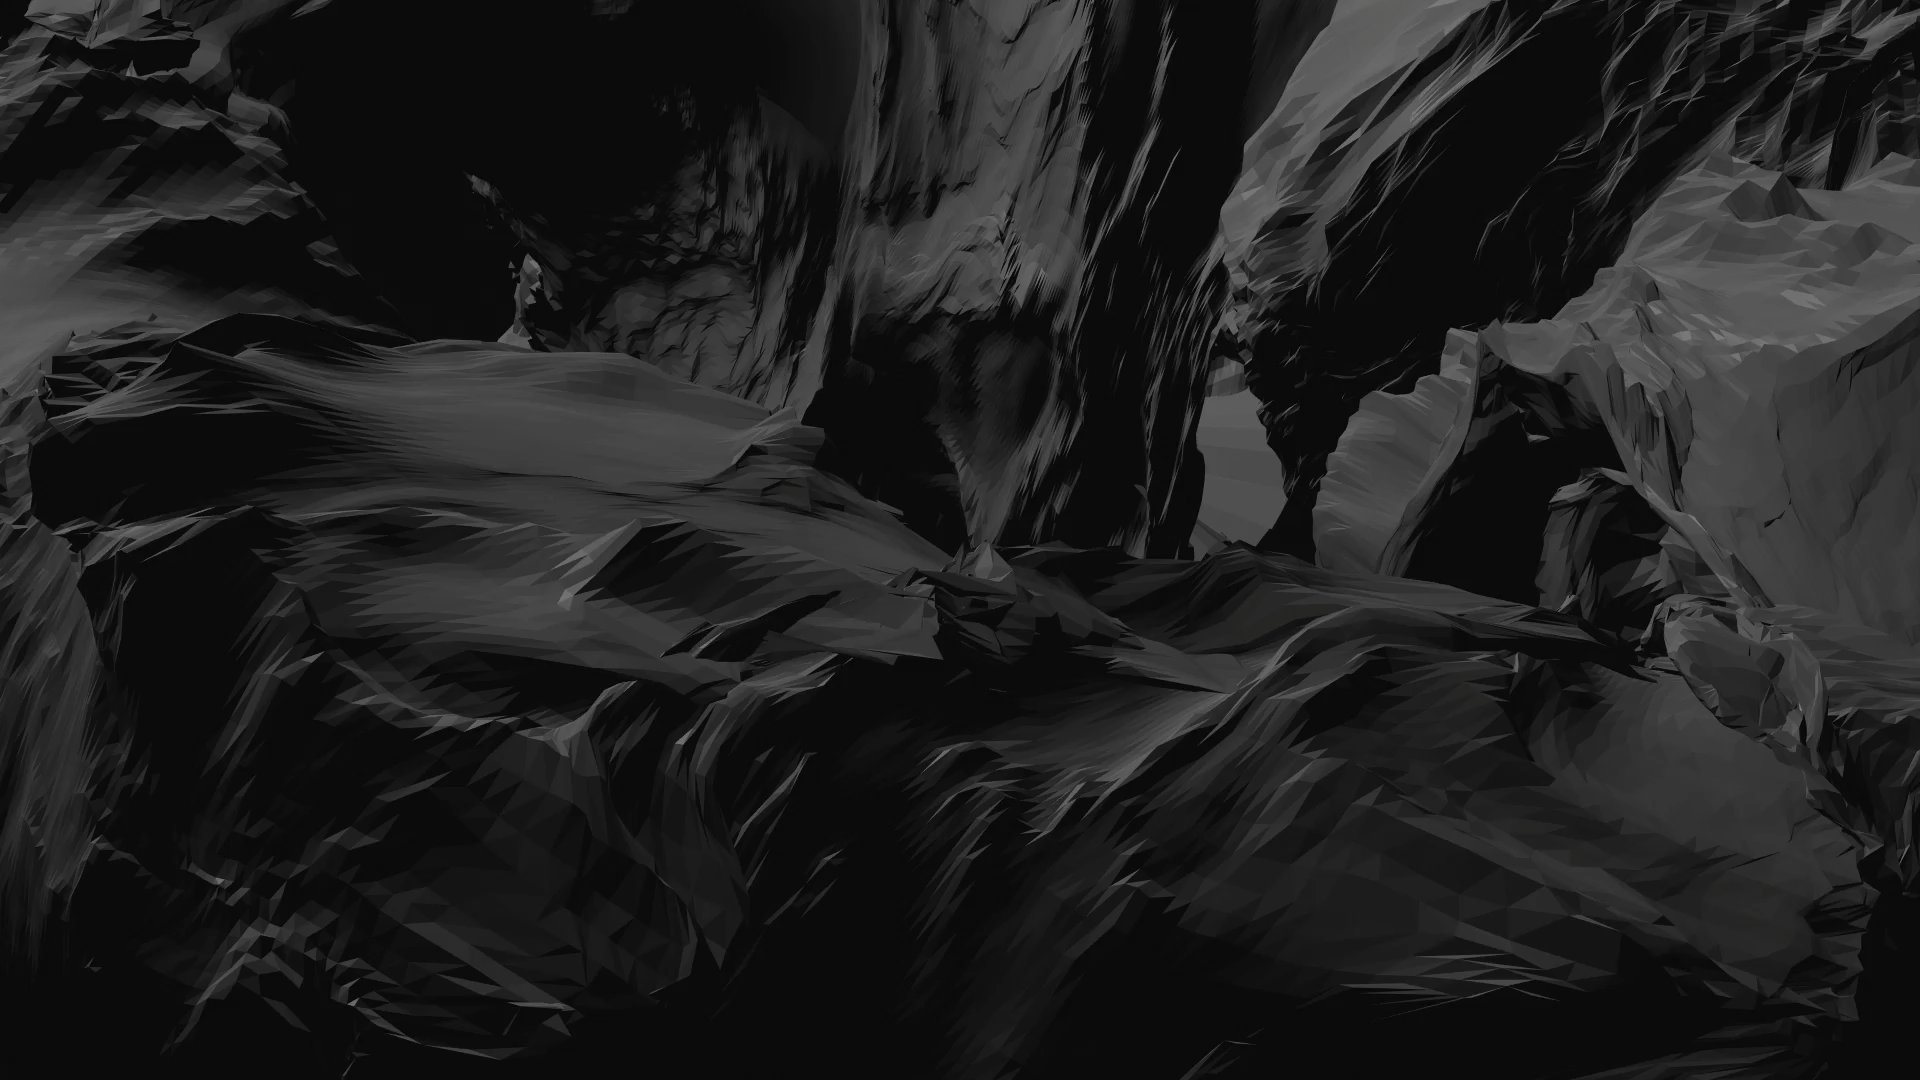
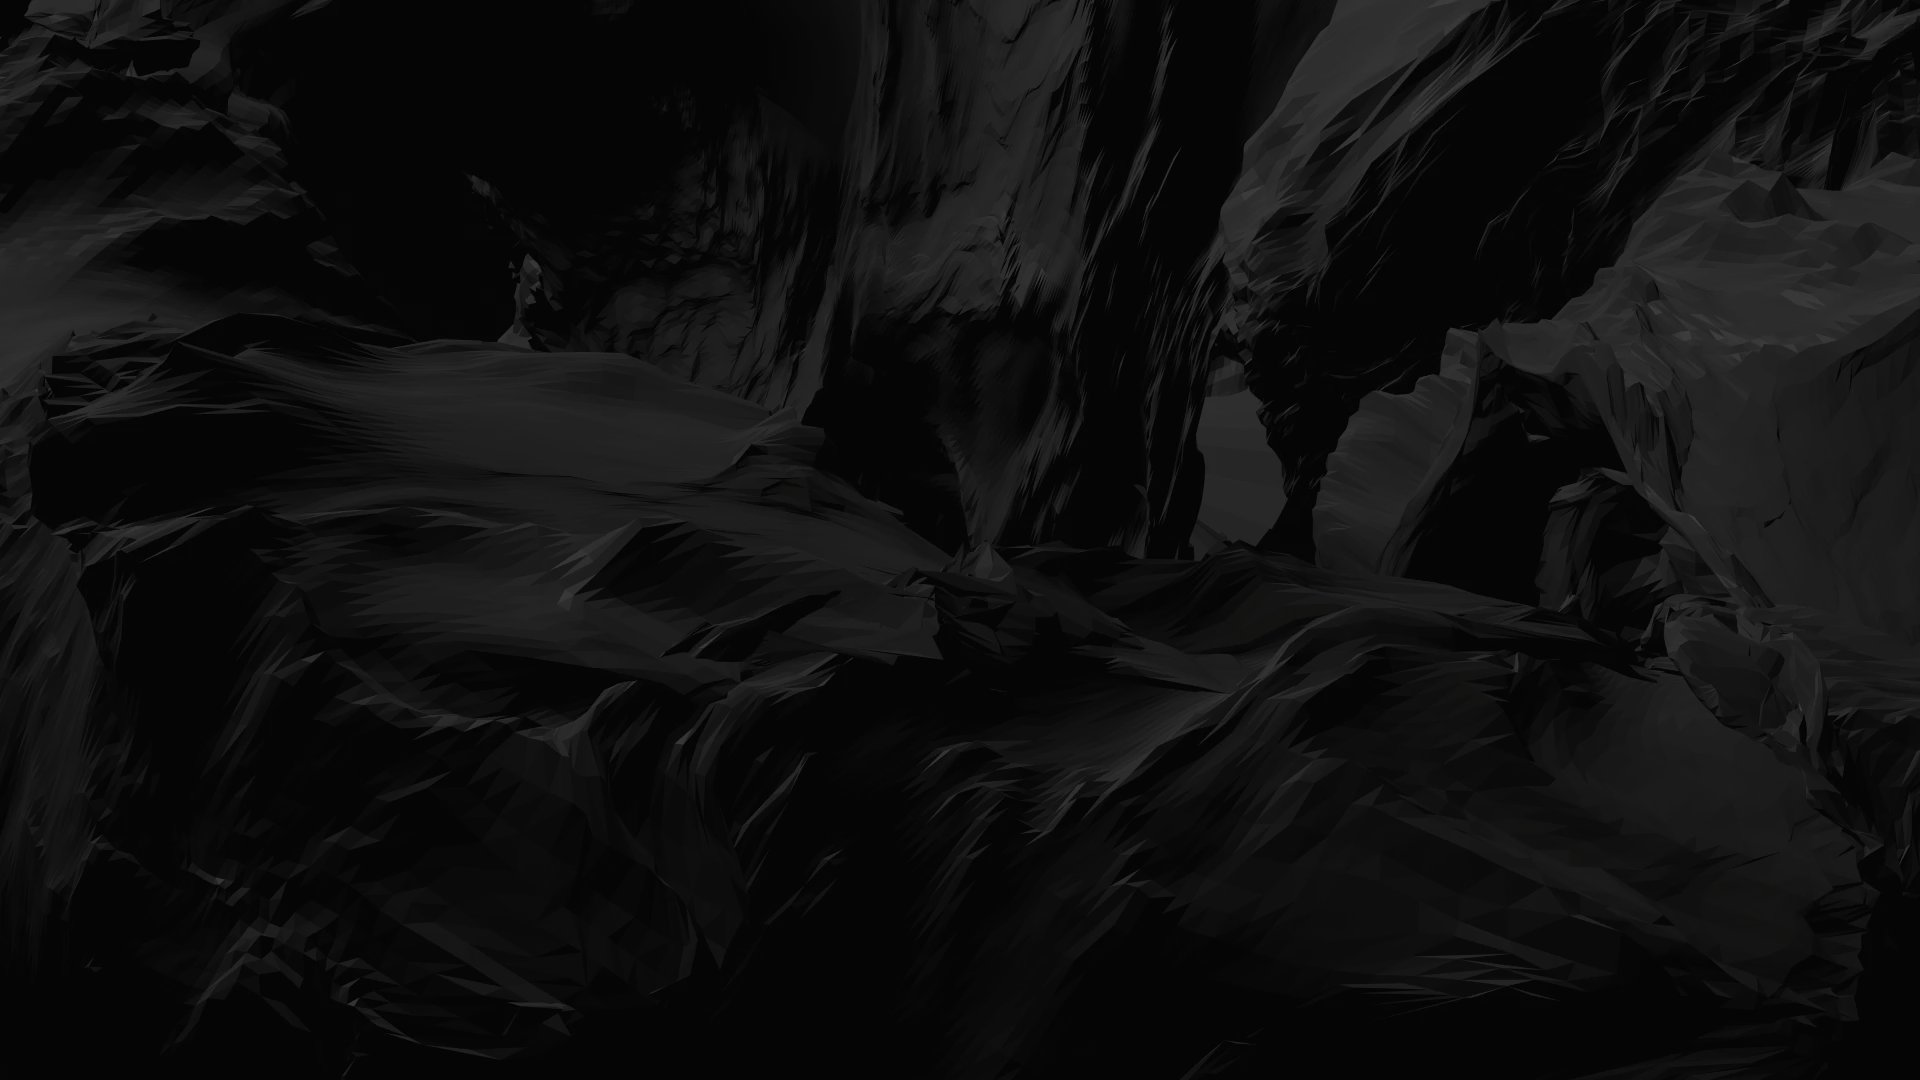
IM: field 60% darker (recedes as a background); all reading text lifted to crisp white

diff --git a/public/hori7on-im-preston-preview.html b/public/hori7on-im-preston-preview.html
@@ -11,7 +11,7 @@
 /* ══ 7even.au issue language — ported verbatim where possible ══ */
 :root{
   --bg:#0A0A0B;--line:rgba(255,255,255,.10);--line2:rgba(255,255,255,.18);
-  --ink:#F4F2EC;--ink2:#B9B6AD;--ink3:#7C7A72;--dim:#4A4842;
+  --ink:#FFFFFF;--ink2:#E3E1DA;--ink3:#A6A39B;--dim:#6A6862;
   --gold:#d6b36a;--gold2:#e8d296;--goldd:#b8933f;
   --f-d:'Cormorant Garamond',Georgia,serif;--f-b:'Inter',system-ui,sans-serif;--f-m:'JetBrains Mono',ui-monospace,monospace}
 *{box-sizing:border-box;margin:0;padding:0}
@@ -32,18 +32,18 @@ img{display:block;max-width:100%}
 /* A4 pages — every page rides the black field */
 .page{width:min(920px,94vw);aspect-ratio:210/297;position:relative;overflow:hidden;color:var(--ink);
   /* the main app page field — the ATRIUM black-fabric still, fixed (not moving),
-     pre-darkened 20% so the gold and white pop */
+     pre-darkened 60% so it sits back as a field and the white + gold read crisp */
   background:
-    radial-gradient(120% 90% at 50% 42%, transparent 45%, rgba(0,0,0,.45) 100%),
+    radial-gradient(120% 90% at 50% 42%, transparent 55%, rgba(0,0,0,.3) 100%),
     url('/im-field-dark.jpg') center / cover no-repeat #060607;
   box-shadow:0 0 0 1px rgba(255,255,255,.08),0 40px 90px -40px rgba(0,0,0,.9)}
 .pgpad{position:absolute;inset:0;padding:5.4% 6.4%;display:flex;flex-direction:column}
 
 /* mono rails */
 .pg-head{display:flex;justify-content:space-between;gap:18px;align-items:baseline;
-  font-family:var(--f-m);font-size:8.5px;letter-spacing:.3em;text-transform:uppercase;color:#8a8e93}
+  font-family:var(--f-m);font-size:8.5px;letter-spacing:.3em;text-transform:uppercase;color:#AFB3B6}
 .pg-folio{display:flex;justify-content:space-between;font-family:var(--f-m);font-size:8.5px;letter-spacing:.28em;
-  text-transform:uppercase;color:#6a6e73;margin-top:auto;padding-top:14px}
+  text-transform:uppercase;color:#9a9e9a;margin-top:auto;padding-top:14px}
 .mid7{opacity:.75}
 
 /* type */
@@ -51,17 +51,17 @@ img{display:block;max-width:100%}
 .mast{font-family:var(--f-d);font-weight:500;line-height:.92;letter-spacing:-.015em;color:var(--ink)}
 .mast i{font-style:italic;font-weight:300;color:var(--gold)}
 .mast .it{display:block;font-style:italic;font-weight:300;color:var(--gold)}
-.lead{font-family:var(--f-d);font-size:14.5px;line-height:1.55;color:#d8d5cd}
+.lead{font-family:var(--f-d);font-size:14.5px;line-height:1.55;color:#F2F0EA}
 .just{font-size:10.6px;line-height:1.78;color:var(--ink2);text-align:justify}
 .just b{color:var(--ink);font-weight:600}
-.figcap{margin-top:9px;font-size:9px;line-height:1.6;color:#9a978f}
+.figcap{margin-top:9px;font-size:9px;line-height:1.6;color:#C9C6BE}
 .figcap b{color:var(--ink);font-weight:600}
 .mcaps{display:flex;justify-content:space-between;gap:18px;margin-top:9px;
-  font-family:var(--f-m);font-size:7.6px;letter-spacing:.2em;text-transform:uppercase;color:#6a6e73}
+  font-family:var(--f-m);font-size:7.6px;letter-spacing:.2em;text-transform:uppercase;color:#9CA09A}
 
 /* Monoton display numbers */
 .sv{font-family:'Monoton',var(--f-d);font-weight:400;line-height:1.15;letter-spacing:.04em;color:var(--gold)}
-.sl{font-family:var(--f-m);font-size:7.6px;letter-spacing:.22em;text-transform:uppercase;color:#8a8e93;margin-top:6px}
+.sl{font-family:var(--f-m);font-size:7.6px;letter-spacing:.22em;text-transform:uppercase;color:#BCB9B1;margin-top:6px}
 
 /* floating plates — edges dissolve into the field */
 .plate{overflow:hidden}
@@ -80,11 +80,11 @@ img{display:block;max-width:100%}
 
 /* meta blocks (ENGINE/FOCUS/STATUS) */
 .meta{display:flex;gap:34px}
-.meta div{border-left:1px solid rgba(255,255,255,.3);padding-left:12px;font-size:9.6px;color:#b3b0a8}
+.meta div{border-left:1px solid rgba(255,255,255,.4);padding-left:12px;font-size:9.6px;color:#DBD9D2}
 .meta b{display:block;font-family:var(--f-m);font-size:7.6px;letter-spacing:.26em;text-transform:uppercase;color:var(--ink);font-weight:600;margin-bottom:4px}
 
 /* pull quote + chips */
-.pq{border-left:2px solid var(--gold);padding-left:16px;font-family:var(--f-d);font-style:italic;font-size:14.5px;line-height:1.6;color:#d8d5cd}
+.pq{border-left:2px solid var(--gold);padding-left:16px;font-family:var(--f-d);font-style:italic;font-size:14.5px;line-height:1.6;color:#F2F0EA}
 .chips{display:flex;gap:8px;flex-wrap:wrap}
 .chip{font-family:var(--f-m);font-size:7.8px;letter-spacing:.2em;text-transform:uppercase;color:var(--ink2);
   border:1px solid rgba(255,255,255,.28);padding:7px 11px;white-space:nowrap}
@@ -92,10 +92,10 @@ img{display:block;max-width:100%}
 /* ledger tables — worksheet discipline on the field */
 table{width:100%;border-collapse:collapse}
 .lt td{padding:6px 2px;border-bottom:1px solid var(--line);font-size:9.4px;color:var(--ink2)}
-.lt td.n{font-family:var(--f-m);text-align:right;color:var(--ink);font-size:9.2px;white-space:nowrap}
+.lt td.n{font-family:var(--f-m);text-align:right;color:#fff;font-size:9.2px;white-space:nowrap}
 .lt tr.sub td{font-weight:600;color:var(--ink)}
 .lt tr.tot td{border-top:2px solid var(--gold);border-bottom:3px double var(--gold);font-weight:600;color:var(--gold);padding:8px 2px}
-.lt .sec{font-family:var(--f-m);font-size:7.4px;letter-spacing:.24em;text-transform:uppercase;color:#8a8e93;padding-top:12px}
+.lt .sec{font-family:var(--f-m);font-size:7.4px;letter-spacing:.24em;text-transform:uppercase;color:#BCB9B1;padding-top:12px}
 
 .rule{width:64px;height:1px;background:linear-gradient(90deg,var(--gold),transparent)}
 .hairline{height:1px;background:linear-gradient(90deg,transparent,rgba(255,255,255,.16) 12%,rgba(255,255,255,.16) 88%,transparent)}
